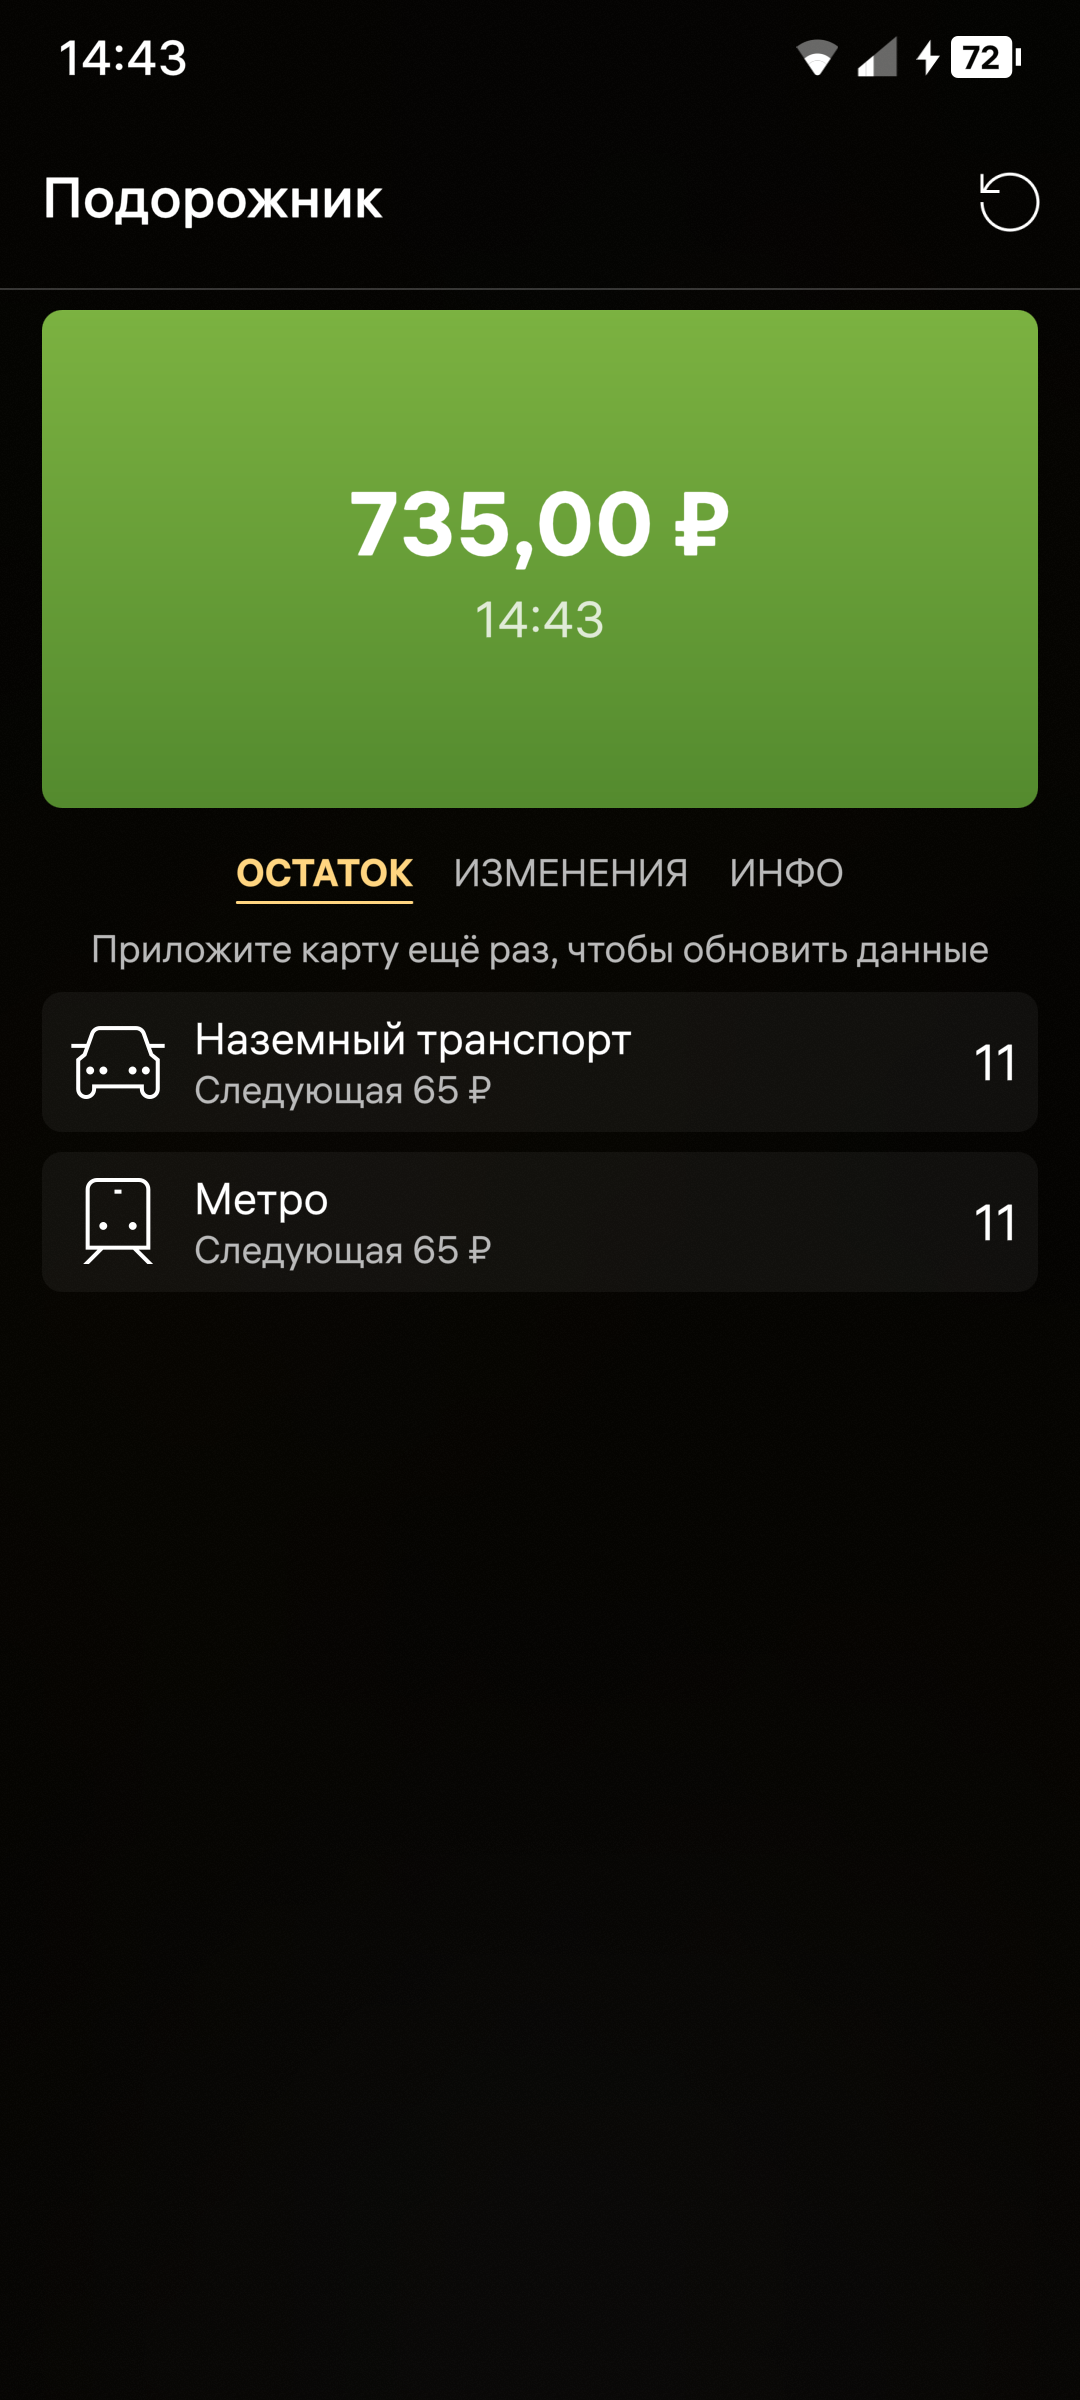
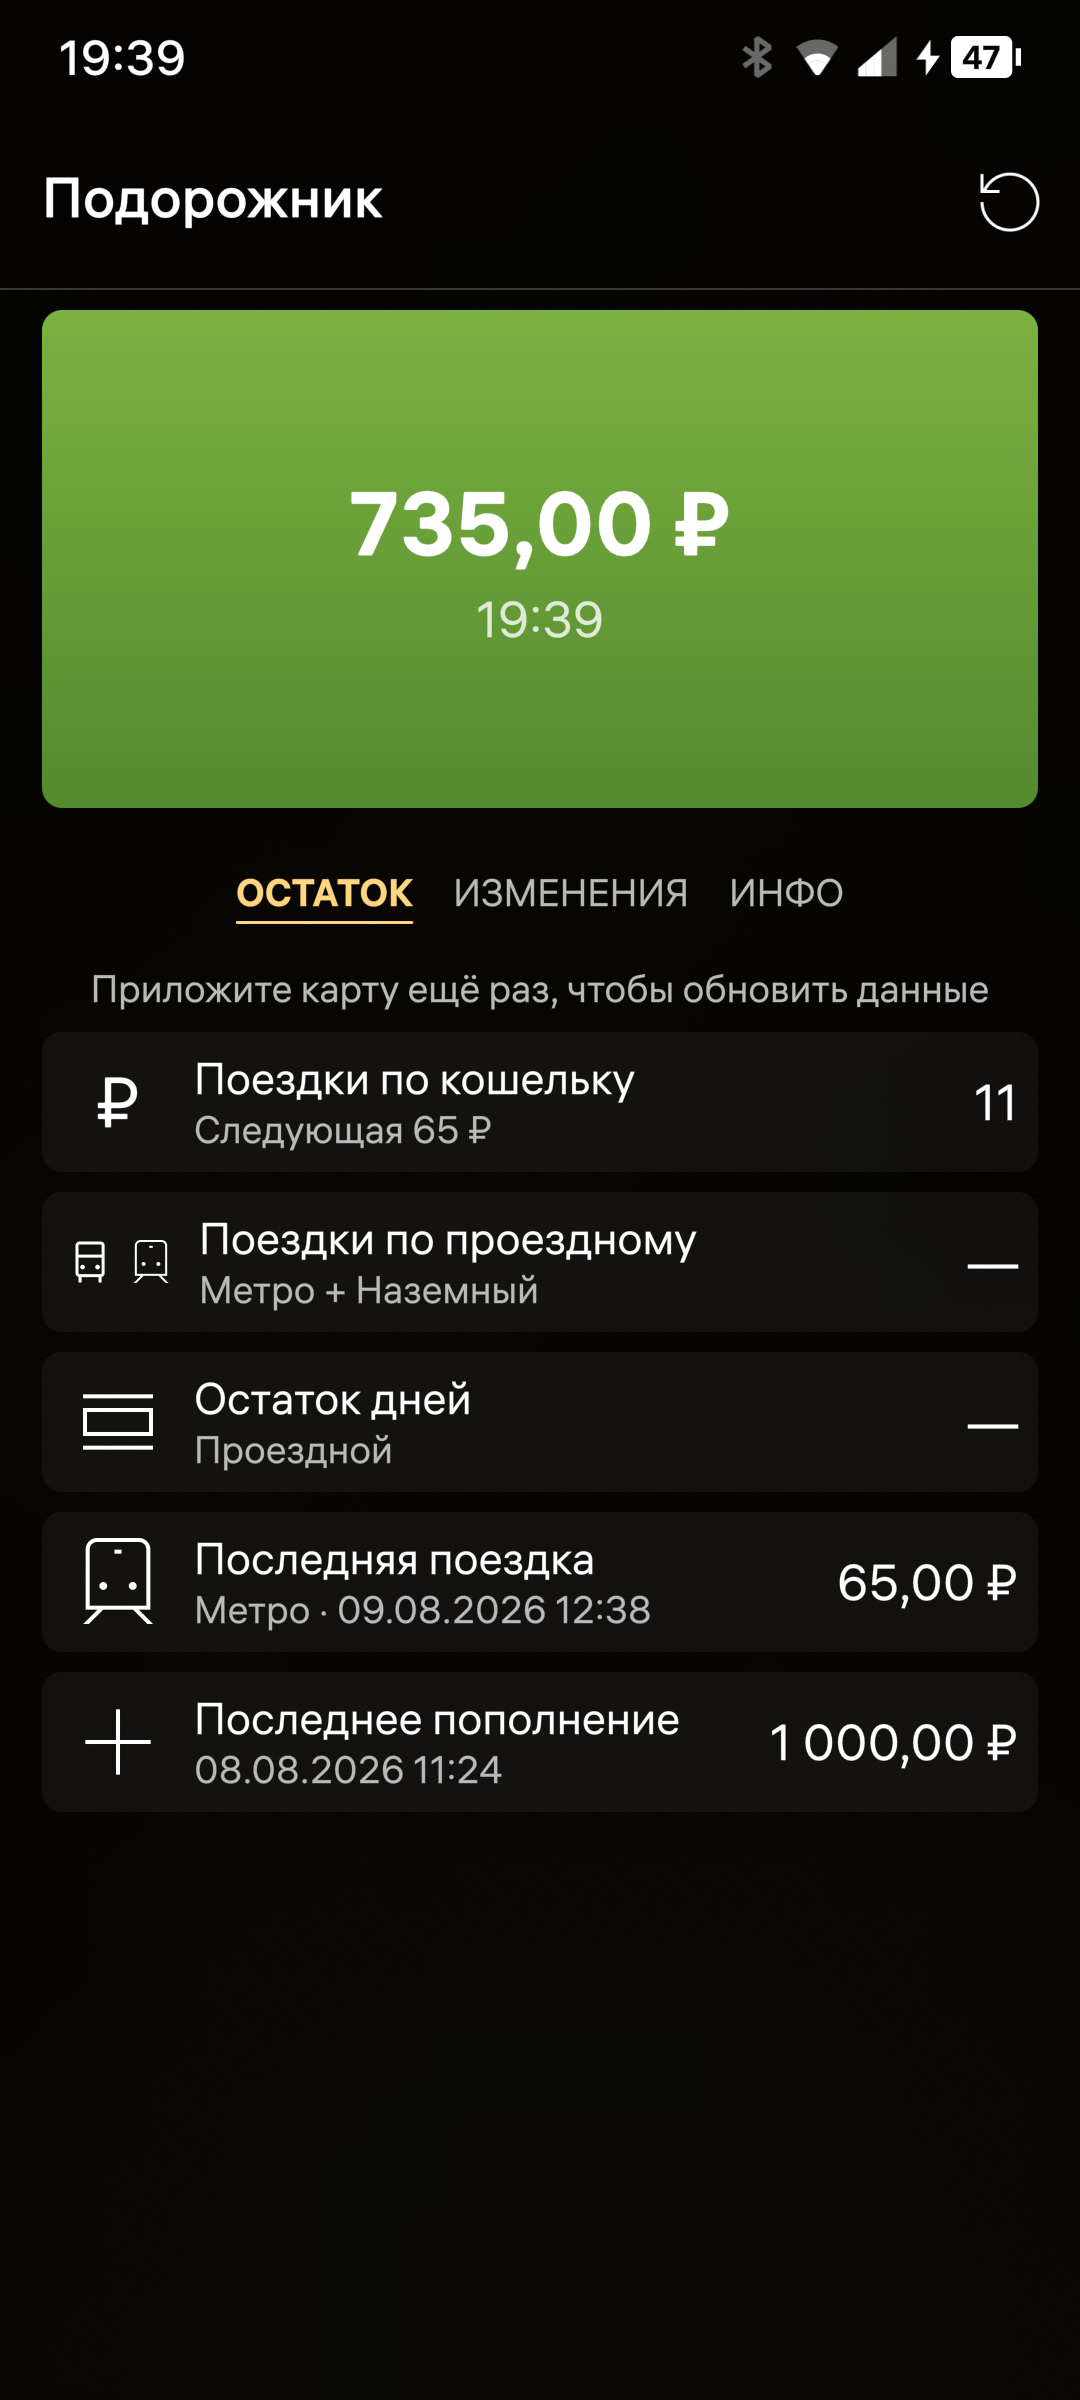
Скриншоты: обновлены под текущий UI, добавлен скриншот «Тройки»
- Обновлены app-waiting, app-balance, app-history, app-info под
  текущий интерфейс (вкладки, типы карт)
- Добавлен app-troika.png — экран баланса «Тройки»
- README: все 5 скриншотов в одном ряду, alt-тексты уточнены

diff --git a/README.md b/README.md
@@ -8,13 +8,15 @@
 NFC-стека (nfcd).
 
 <p align="center">
-  <img src="screenshots/app-waiting.png" width="200"
+  <img src="screenshots/app-waiting.png" width="180"
        alt="Ожидание карты" />
-  <img src="screenshots/app-balance.png" width="200"
-       alt="Баланс и счётчики поездок" />
-  <img src="screenshots/app-history.png" width="200"
+  <img src="screenshots/app-balance.png" width="180"
+       alt="Подорожник: баланс и поездки" />
+  <img src="screenshots/app-troika.png" width="180"
+       alt="Тройка: баланс" />
+  <img src="screenshots/app-history.png" width="180"
        alt="История чтений" />
-  <img src="screenshots/app-info.png" width="200"
+  <img src="screenshots/app-info.png" width="180"
        alt="Информация о карте" />
 </p>
 
